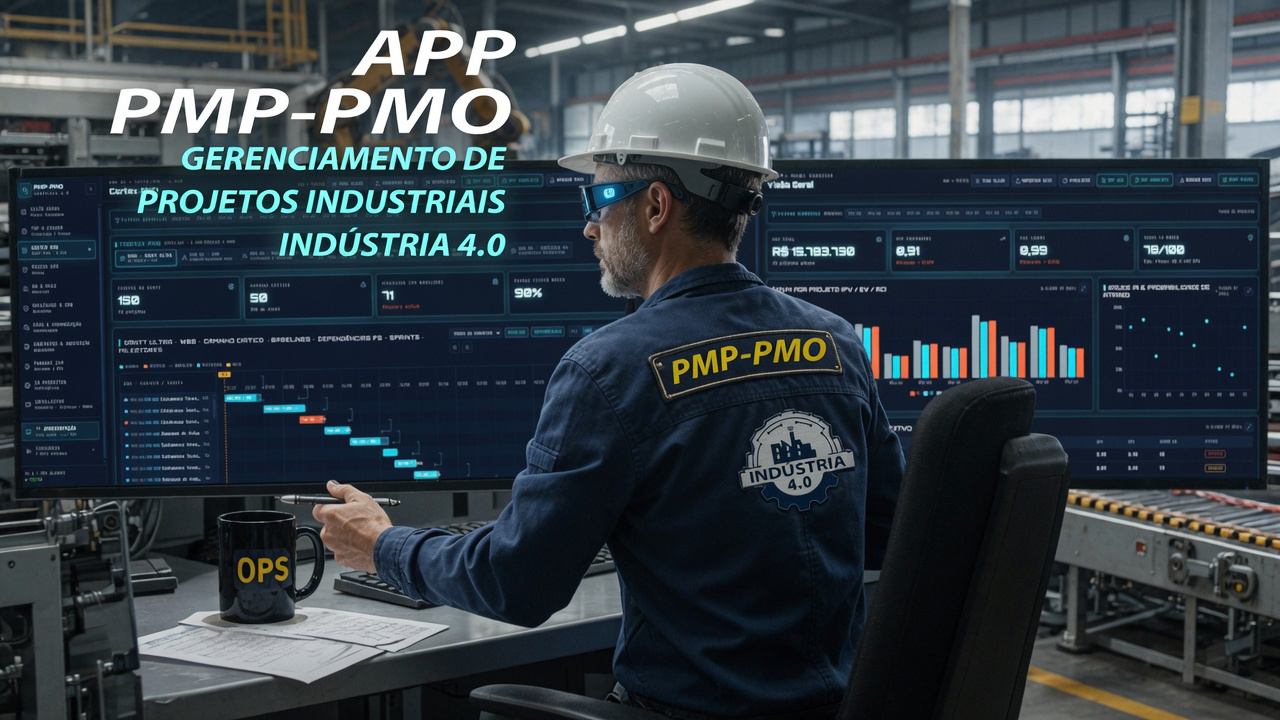
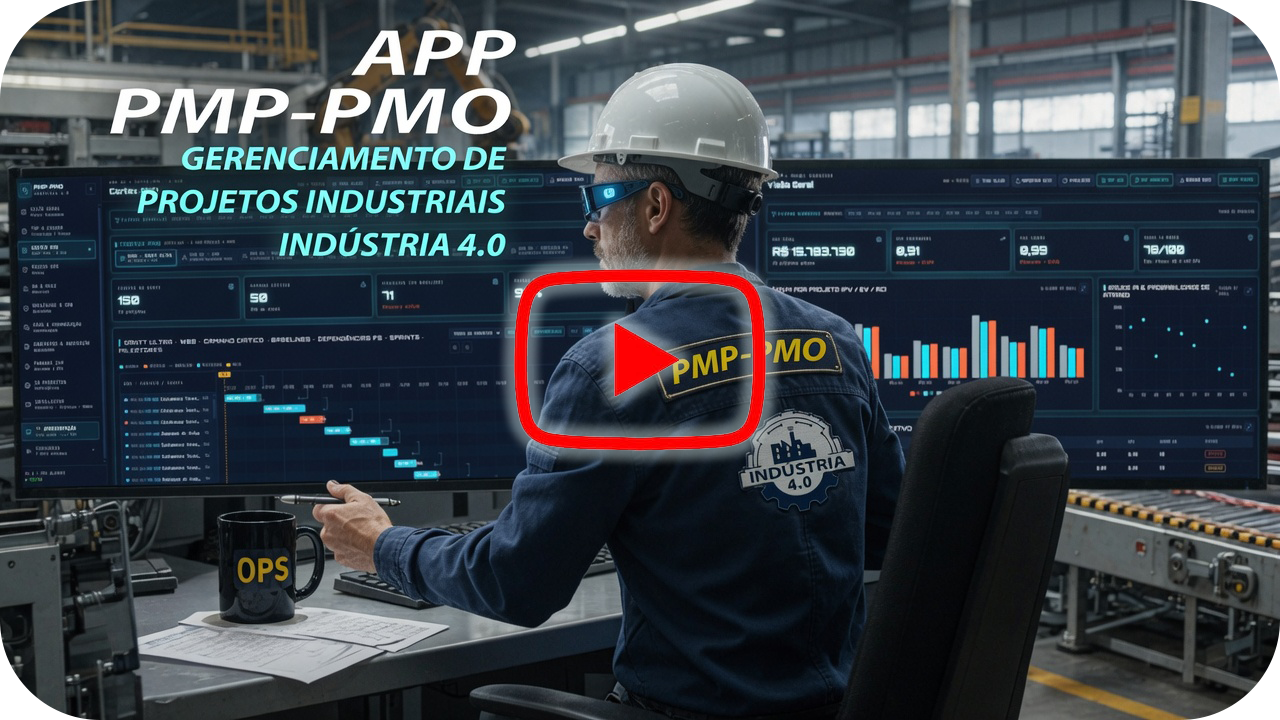
Add files via upload

diff --git a/js/main.js b/js/main.js
@@ -249,6 +249,13 @@
     startProgressLoop(playerId);
   }
 
+  function togglePlayPause(playerId) {
+    const player = YT_PLAYERS[playerId];
+    if (!player || typeof player.getPlayerState !== "function") return;
+    if (player.getPlayerState() === YT.PlayerState.PLAYING) player.pauseVideo();
+    else player.playVideo();
+  }
+
   document.querySelectorAll(".play-btn[data-youtube-id]").forEach(function (btn) {
     btn.addEventListener("click", function () {
       const wrap = btn.closest(".player");
@@ -261,6 +268,15 @@
       const build = function () { buildPlayer(playerId, videoId); };
       if (ytApiReady) build();
       else ytPendingBuilds.push(build);
+    });
+  });
+
+  // escudo transparente sobre o vídeo: qualquer clique nele alterna
+  // play/pause através da API — o iframe do YouTube em si nunca recebe
+  // o clique (nem o hover), então nenhum ícone nativo dele aparece.
+  document.querySelectorAll(".yt-shield").forEach(function (shield) {
+    shield.addEventListener("click", function () {
+      togglePlayPause(shield.getAttribute("data-shield-for"));
     });
   });
 
@@ -290,10 +306,7 @@
     const playBtn = bar.querySelector('[data-action="toggle-play"]');
     if (playBtn) {
       playBtn.addEventListener("click", function () {
-        const player = YT_PLAYERS[playerId];
-        if (!player || typeof player.getPlayerState !== "function") return;
-        if (player.getPlayerState() === YT.PlayerState.PLAYING) player.pauseVideo();
-        else player.playVideo();
+        togglePlayPause(playerId);
       });
     }
 
@@ -396,14 +409,38 @@
   const chatClose = document.getElementById("chat-close");
   const chatForm = document.getElementById("chat-form");
   const chatBody = document.getElementById("chat-body");
+  const chatIntro = document.getElementById("chat-intro");
+  const chatDynamic = document.getElementById("chat-dynamic");
+
+  let chatAutoCloseTimer = null;
+
+  function resetChatWidget() {
+    if (chatAutoCloseTimer) {
+      clearTimeout(chatAutoCloseTimer);
+      chatAutoCloseTimer = null;
+    }
+    if (chatIntro) chatIntro.style.display = "";
+    if (chatDynamic) chatDynamic.innerHTML = "";
+    if (chatForm) {
+      chatForm.reset();
+      chatForm.style.display = "";
+      const submitBtn = chatForm.querySelector("button[type=submit]");
+      if (submitBtn) {
+        submitBtn.disabled = false;
+        submitBtn.textContent = "Enviar informações";
+      }
+    }
+  }
 
   function openChat() {
     chatWidget.classList.add("open");
     chatFab.classList.add("hidden");
   }
+
   function closeChat() {
     chatWidget.classList.remove("open");
     chatFab.classList.remove("hidden");
+    resetChatWidget(); // ao fechar, a próxima abertura já vem limpa
   }
 
   if (chatFab) chatFab.addEventListener("click", openChat);
@@ -420,8 +457,22 @@
     chatForm.addEventListener("submit", async function (e) {
       e.preventDefault();
 
+      // honeypot: se esse campo (invisível para humanos) vier preenchido,
+      // é bot — finge sucesso e não gasta 1 crédito sequer do Make.com
+      if (chatForm.website && chatForm.website.value.trim() !== "") {
+        if (chatIntro) chatIntro.style.display = "none";
+        chatForm.style.display = "none";
+        chatDynamic.innerHTML = "";
+        const fakeSuccess = document.createElement("div");
+        fakeSuccess.className = "chat-msg";
+        fakeSuccess.textContent =
+          "Obrigado pelas informações! Assim que eu receber o seu contato aqui na minha caixa de entrada, analisarei o seu cenário e retornarei o mais breve possível para conversarmos. Tenha um excelente dia de trabalho!";
+        chatDynamic.appendChild(fakeSuccess);
+        chatAutoCloseTimer = setTimeout(closeChat, 4000);
+        return;
+      }
+
       const submitBtn = chatForm.querySelector("button[type=submit]");
-      const originalLabel = submitBtn.textContent;
       submitBtn.disabled = true;
       submitBtn.textContent = "TRANSMITINDO DADOS DE AUTORIZAÇÃO...";
 
@@ -443,22 +494,31 @@
           });
         }
 
+        // sucesso: mostra só a mensagem final (esconde as de boas-vindas
+        // e o formulário) — nada de empilhar mensagem em cima de mensagem
+        if (chatIntro) chatIntro.style.display = "none";
         chatForm.style.display = "none";
+        chatDynamic.innerHTML = "";
         const success = document.createElement("div");
         success.className = "chat-msg";
         success.textContent =
           "Obrigado pelas informações! Assim que eu receber o seu contato aqui na minha caixa de entrada, analisarei o seu cenário e retornarei o mais breve possível para conversarmos. Tenha um excelente dia de trabalho!";
-        chatBody.appendChild(success);
+        chatDynamic.appendChild(success);
         chatBody.scrollTop = chatBody.scrollHeight;
+
+        // fecha sozinho depois de alguns segundos, já deixando tudo
+        // resetado para a próxima vez que o ícone for clicado
+        chatAutoCloseTimer = setTimeout(closeChat, 4000);
       } catch (err) {
         submitBtn.disabled = false;
-        submitBtn.textContent = originalLabel;
+        submitBtn.textContent = "Enviar informações";
+        chatDynamic.innerHTML = "";
         const errorMsg = document.createElement("div");
         errorMsg.className = "chat-msg";
         errorMsg.style.color = "var(--orange)";
         errorMsg.textContent =
           "[ FALHA NA TRANSMISSÃO. VERIFIQUE SUA CONEXÃO E TENTE NOVAMENTE. ]";
-        chatBody.appendChild(errorMsg);
+        chatDynamic.appendChild(errorMsg);
         chatBody.scrollTop = chatBody.scrollHeight;
       }
     });

diff --git a/index.html b/index.html
@@ -83,6 +83,7 @@
               <svg viewBox="0 0 24 24"><path d="M8 5v14l11-7z"/></svg>
             </button>
             <div class="yt-target" id="yt-target-pmp"></div>
+            <div class="yt-shield" data-shield-for="pmp"></div>
             <div class="yt-mask-top">PMP-PMO &mdash; DEMONSTRAÇÃO</div>
             <div class="yt-cover">
               <svg viewBox="0 0 24 24"><path d="M8 5v14l11-7z"/></svg>
@@ -208,6 +209,7 @@
               <svg viewBox="0 0 24 24"><path d="M8 5v14l11-7z"/></svg>
             </button>
             <div class="yt-target" id="yt-target-pcm"></div>
+            <div class="yt-shield" data-shield-for="pcm"></div>
             <div class="yt-mask-top">PCM-EAM/CMMS &mdash; DEMONSTRAÇÃO</div>
             <div class="yt-cover">
               <svg viewBox="0 0 24 24"><path d="M8 5v14l11-7z"/></svg>
@@ -259,6 +261,7 @@
               <svg viewBox="0 0 24 24"><path d="M8 5v14l11-7z"/></svg>
             </button>
             <div class="yt-target" id="yt-target-bpm"></div>
+            <div class="yt-shield" data-shield-for="bpm"></div>
             <div class="yt-mask-top">BPM-CBOK &mdash; DEMONSTRAÇÃO</div>
             <div class="yt-cover">
               <svg viewBox="0 0 24 24"><path d="M8 5v14l11-7z"/></svg>
@@ -311,6 +314,7 @@
               <svg viewBox="0 0 24 24"><path d="M8 5v14l11-7z"/></svg>
             </button>
             <div class="yt-target" id="yt-target-lss"></div>
+            <div class="yt-shield" data-shield-for="lss"></div>
             <div class="yt-mask-top">Lean Six Sigma &mdash; DEMONSTRAÇÃO</div>
             <div class="yt-cover">
               <svg viewBox="0 0 24 24"><path d="M8 5v14l11-7z"/></svg>
@@ -363,6 +367,7 @@
               <svg viewBox="0 0 24 24"><path d="M8 5v14l11-7z"/></svg>
             </button>
             <div class="yt-target" id="yt-target-sst"></div>
+            <div class="yt-shield" data-shield-for="sst"></div>
             <div class="yt-mask-top">SST-SGG &mdash; DEMONSTRAÇÃO</div>
             <div class="yt-cover">
               <svg viewBox="0 0 24 24"><path d="M8 5v14l11-7z"/></svg>
@@ -669,9 +674,16 @@
     <button id="chat-close" aria-label="Fechar chat">✕</button>
   </div>
   <div class="chat-body" id="chat-body">
-    <div class="chat-msg">Olá! Tudo bem? Obrigado pelo contato por aqui.</div>
-    <div class="chat-msg">Já vi que você prefere o contato por e-mail. Para eu entender melhor o seu cenário e preparar uma proposta assertiva para o seu desafio, você poderia me passar esses detalhes rápidos?</div>
+    <div id="chat-intro">
+      <div class="chat-msg">Olá! Tudo bem? Obrigado pelo contato por aqui.</div>
+      <div class="chat-msg">Já vi que você prefere o contato por e-mail. Para eu entender melhor o seu cenário e preparar uma proposta assertiva para o seu desafio, você poderia me passar esses detalhes rápidos?</div>
+    </div>
+    <div id="chat-dynamic"></div>
     <form class="chat-form" id="chat-form">
+      <div class="hp-field" aria-hidden="true">
+        <label for="chat-website">Website</label>
+        <input type="text" id="chat-website" name="website" tabindex="-1" autocomplete="off" />
+      </div>
       <input type="text" name="nome" placeholder="Nome" required />
       <input type="text" name="empresa" placeholder="Empresa" required />
       <input type="email" name="email" placeholder="E-mail corporativo" required />

diff --git a/css/style.css b/css/style.css
@@ -504,6 +504,22 @@ body.unlocked #gate {
 .player.is-playing .thumb,
 .player.is-playing .play-btn { display: none; }
 
+/* escudo transparente sobre o iframe — impede qualquer clique OU hover
+   direto no vídeo do YouTube. É isso que evita os ícones nativos que
+   o YouTube revela sozinho ao passar o mouse por cima do vídeo pausado
+   (seta de "voltar 10s", relógio etc.) — eles nem chegam a aparecer,
+   porque o iframe nunca recebe o evento de mouse; tudo é capturado por
+   este escudo e redirecionado para o nosso próprio botão de play/pause. */
+.yt-shield {
+  position: absolute;
+  inset: 0;
+  z-index: 4;
+  cursor: pointer;
+  pointer-events: none;
+}
+
+.player.is-playing .yt-shield { pointer-events: auto; }
+
 /* tarja fixa no topo — SEMPRE visível enquanto o player está ativo,
    tocando ou não, para cobrir fisicamente a área onde o YouTube
    desenha avatar/nome do canal (isso não é supresível via parâmetro) */
@@ -1209,6 +1225,18 @@ table.metrics-table td.gain { color: var(--green); font-weight: 500; }
 }
 
 .chat-form { display: flex; flex-direction: column; gap: 10px; }
+
+/* honeypot anti-spam: campo real no DOM (bots que preenchem tudo
+   cegamente caem nele), mas invisível e inalcançável para humanos —
+   por isso "display:none" não é usado aqui (alguns bots o ignoram) */
+.hp-field {
+  position: absolute;
+  left: -9999px;
+  top: -9999px;
+  height: 0;
+  width: 0;
+  overflow: hidden;
+}
 
 .chat-form input,
 .chat-form textarea {
